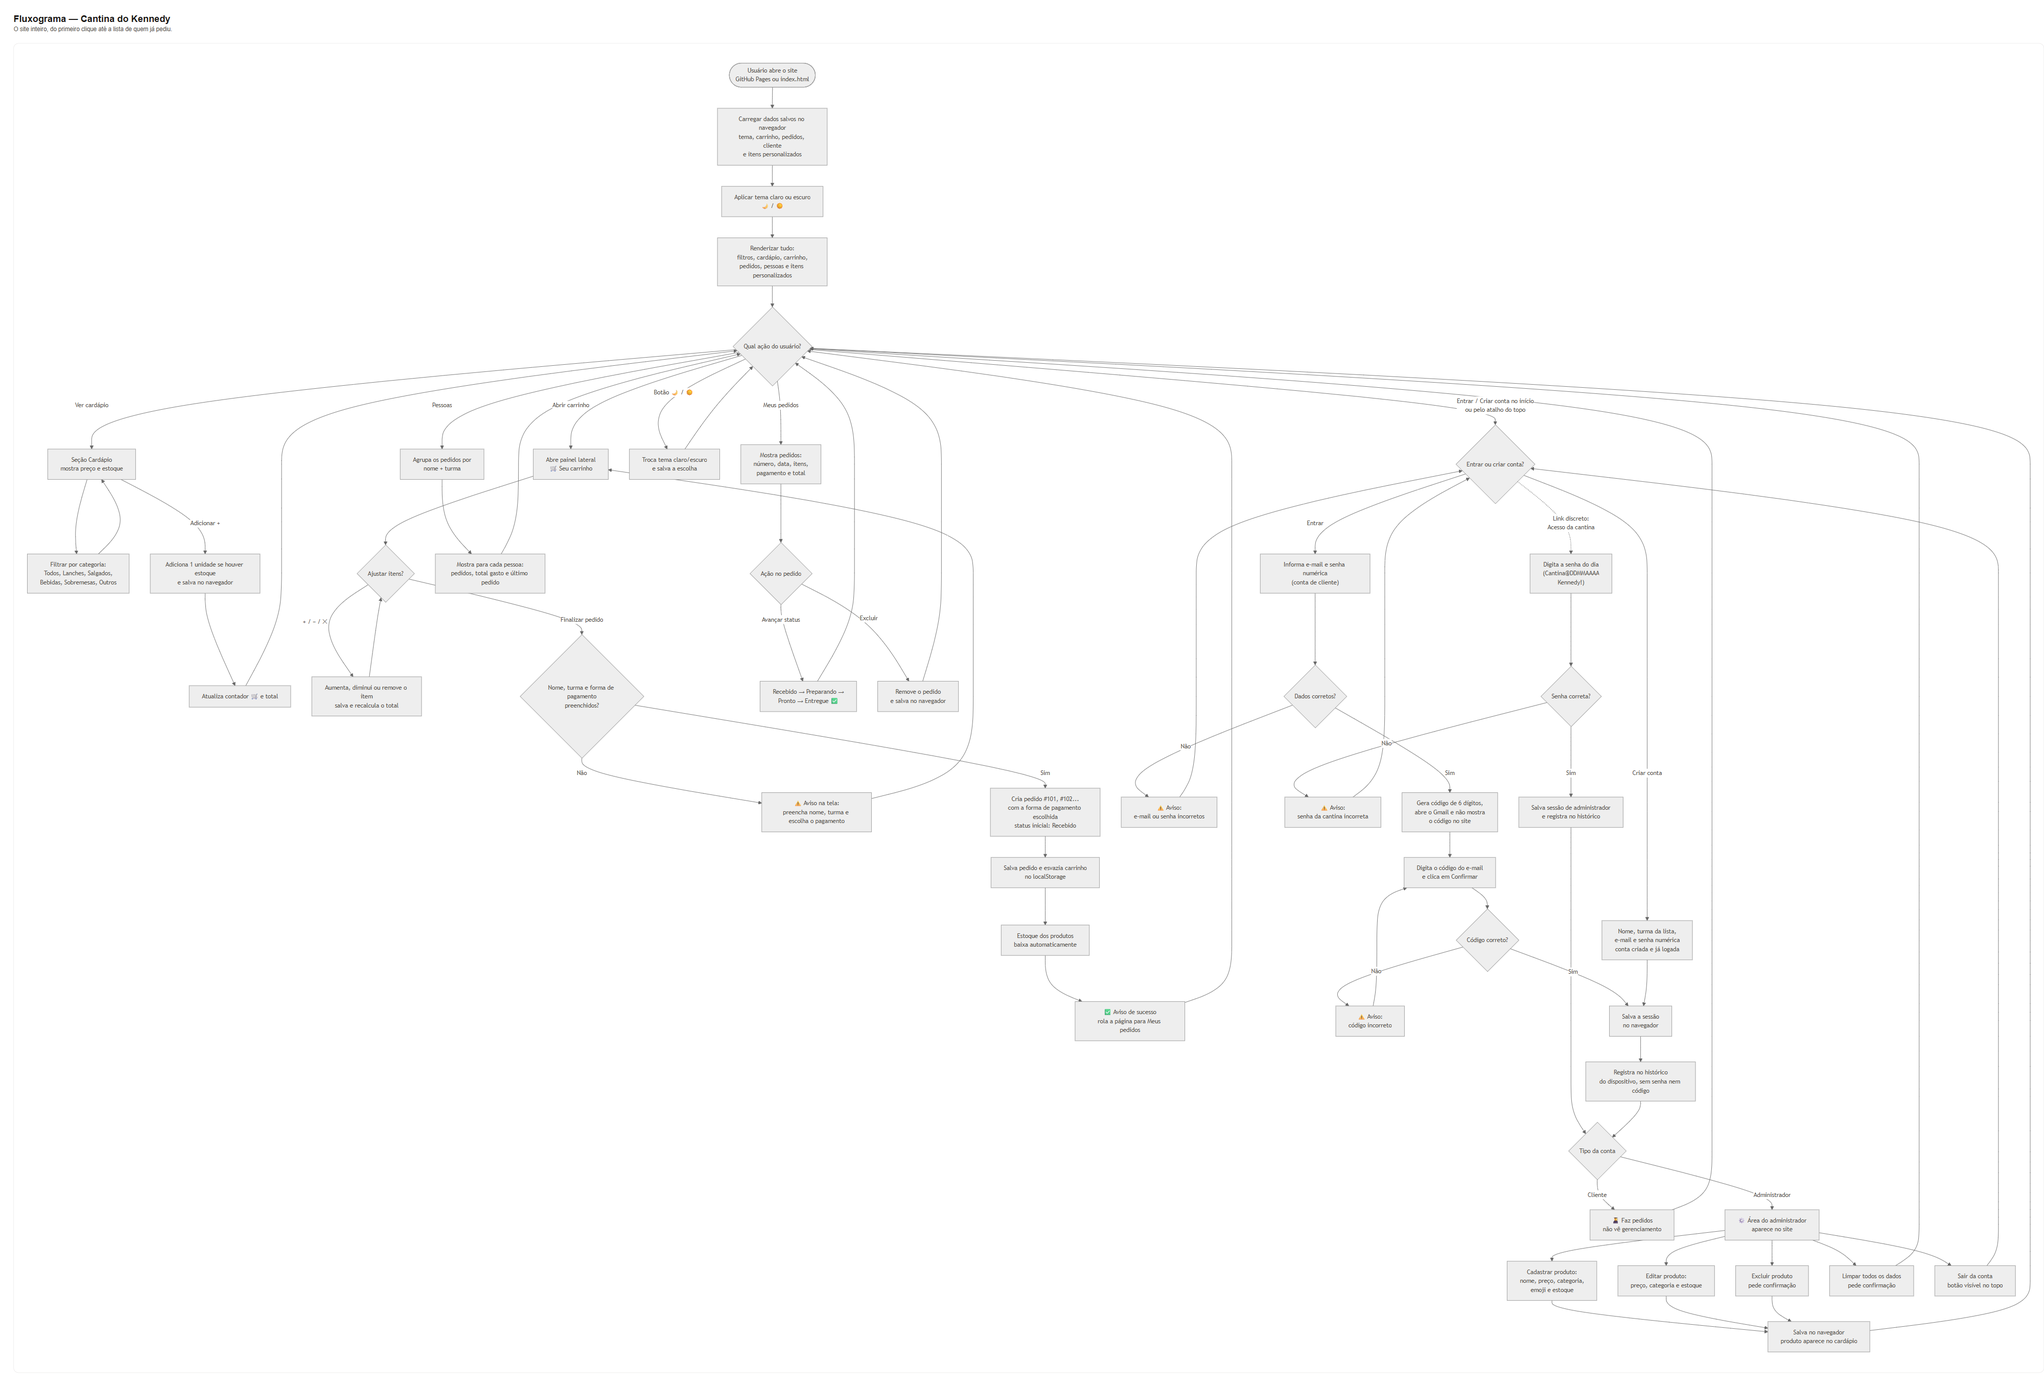
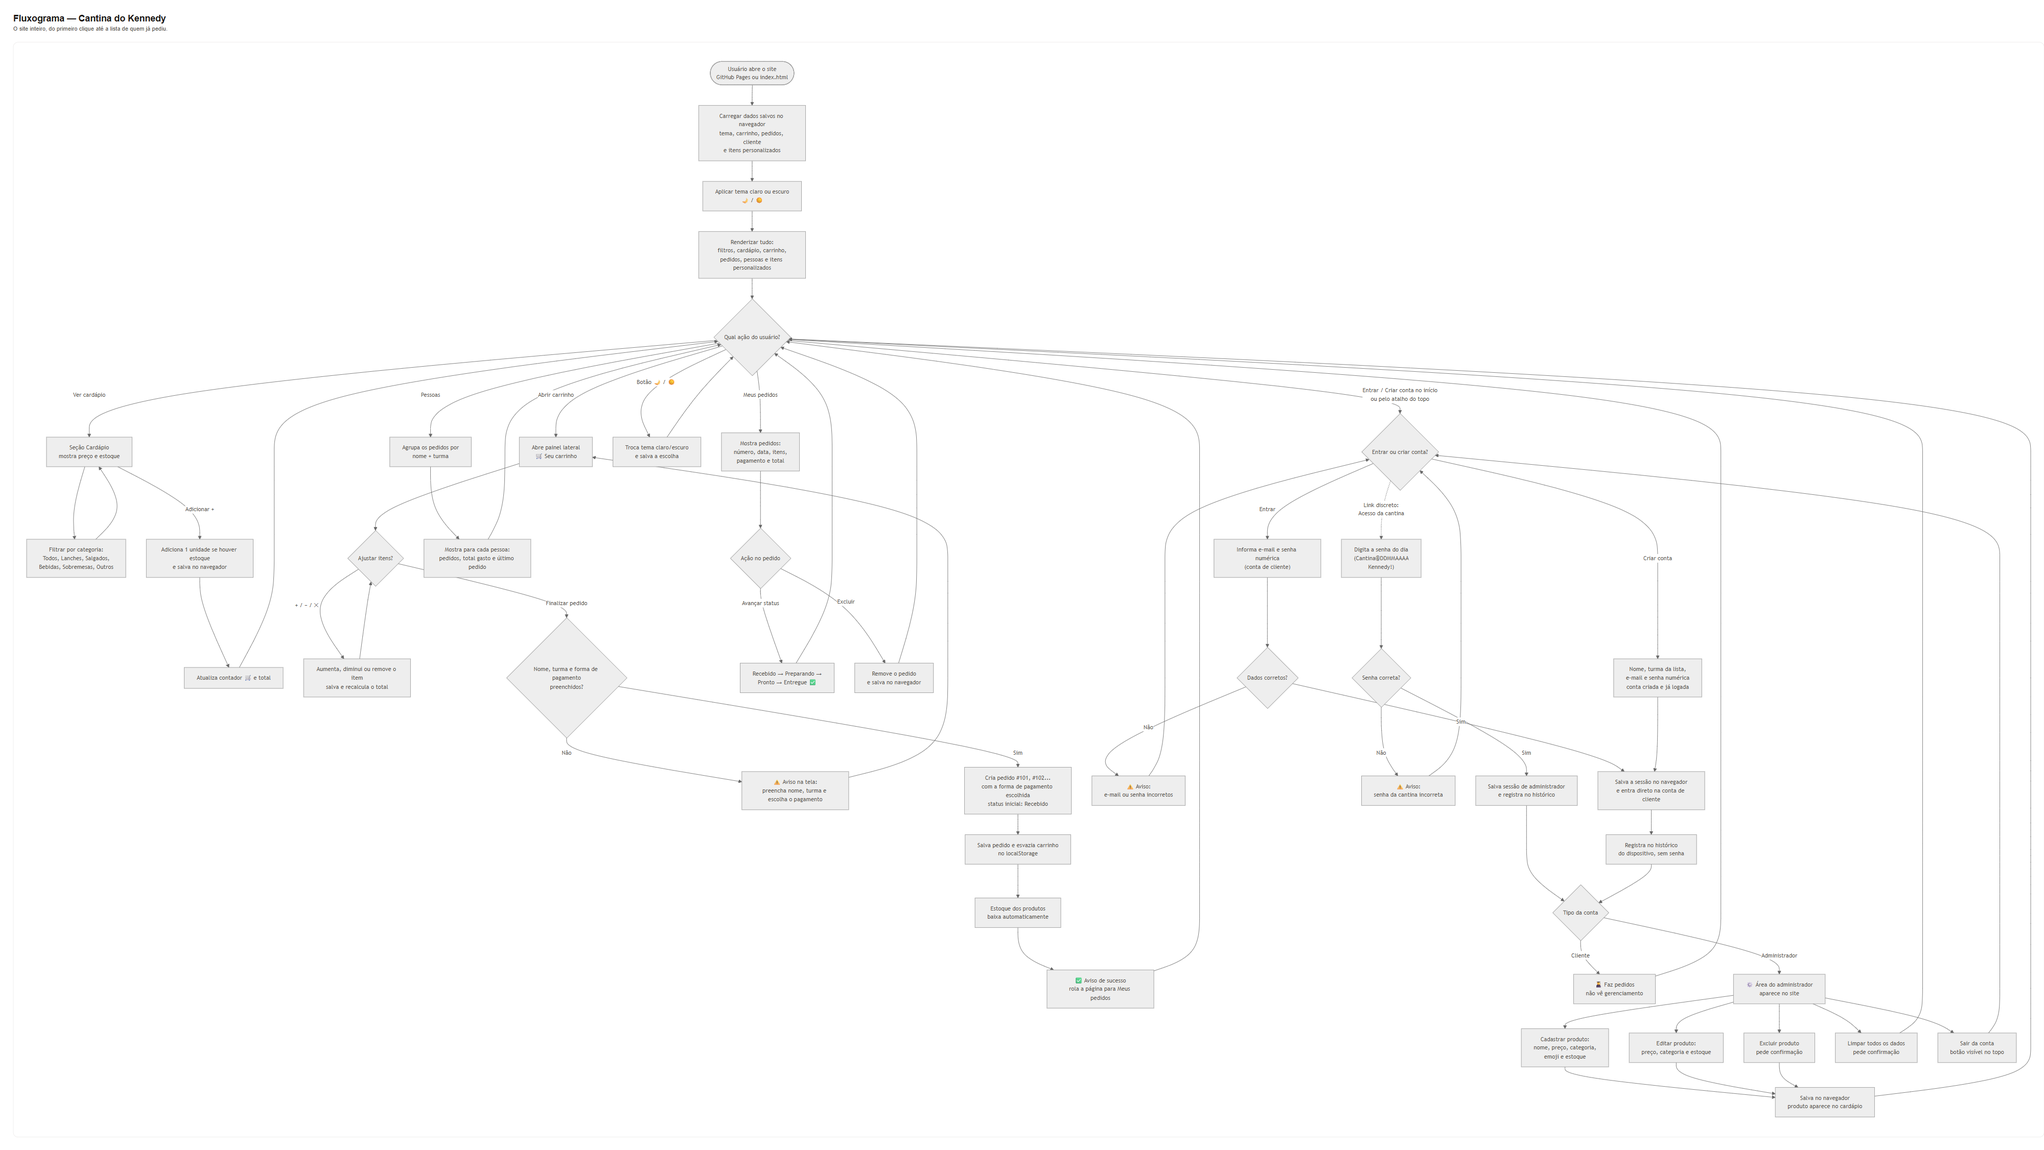
Login do cliente sem código e senha admin de 8 caracteres

diff --git a/app.js b/app.js
@@ -47,12 +47,12 @@ const STATUS = ['Recebido', 'Preparando', 'Pronto', 'Entregue'];
 const PREFIXO_SENHA_ADMIN = 'Cantina@';
 const SUFIXO_SENHA_ADMIN = 'Kennedy!';
 
-// Regras exigidas: no mínimo 12 caracteres, 2 números, letra maiúscula,
+// Regras exigidas: no mínimo 8 caracteres, 2 números, letra maiúscula,
 // letra minúscula e símbolo (ex.: @ ! # $ % & *).
 function senhaAdminValida(senha) {
   if (typeof senha !== 'string') return false;
   const quantidadeNumeros = (senha.match(/\d/g) || []).length;
-  return senha.length >= 12
+  return senha.length >= 8
     && quantidadeNumeros >= 2
     && /[A-Z]/.test(senha)
     && /[a-z]/.test(senha)
@@ -125,11 +125,6 @@ const el = {
   formCriar: $('#form-criar'),
   loginEmail: $('#login-email'),
   loginSenha: $('#login-senha'),
-  codigoLogin: $('#codigo-login'),
-  loginCodigo: $('#login-codigo'),
-  linkCodigoGmail: $('#link-codigo-gmail'),
-  btnConfirmarCodigo: $('#btn-confirmar-codigo'),
-  btnCancelarCodigo: $('#btn-cancelar-codigo'),
   criarNome: $('#criar-nome'),
   criarTurma: $('#criar-turma'),
   criarEmail: $('#criar-email'),
@@ -233,27 +228,6 @@ function emailValido(email) {
   return /^[^\s@]+@[^\s@]+\.[^\s@]+$/.test(email);
 }
 
-// Gera uma senha ou um código de acesso com somente números (6 dígitos).
-function gerarSenha() {
-  const valores = new Uint32Array(6);
-  if (window.crypto && window.crypto.getRandomValues) {
-    window.crypto.getRandomValues(valores);
-  } else {
-    for (let i = 0; i < valores.length; i += 1) valores[i] = Math.floor(Math.random() * 10);
-  }
-  return Array.from(valores, (valor) => String(valor % 10)).join('');
-}
-
-// Monta o e-mail do Gmail com o código usado na segunda etapa do login.
-function linkGmailCodigo(email, nome, codigo) {
-  const assunto = 'Código para entrar - Cantina do Kennedy';
-  const corpo = `Olá, ${nome}!\n\nSeu código para entrar na Cantina do Kennedy é:\n\n${codigo}\n\nDigite este código no site depois da senha.\n`;
-  return 'https://mail.google.com/mail/?view=cm&fs=1'
-    + `&to=${encodeURIComponent(email)}`
-    + `&su=${encodeURIComponent(assunto)}`
-    + `&body=${encodeURIComponent(corpo)}`;
-}
-
 let timerToast;
 function mostrarMensagem(texto) {
   el.toast.textContent = texto;
@@ -309,9 +283,6 @@ function alternarModo(modo) {
   el.abaCriar.classList.toggle('ativa', modo === 'criar');
   el.abaLogin.setAttribute('aria-selected', String(modo === 'login'));
   el.abaCriar.setAttribute('aria-selected', String(modo === 'criar'));
-  el.codigoLogin.hidden = true;
-  el.loginCodigo.value = '';
-  codigoPendente = null;
 }
 
 function renderizarAdmin() {
@@ -335,7 +306,7 @@ function renderizarAdmin() {
   }
 }
 
-// Guarda no dispositivo os logins feitos com sucesso (nunca senha ou código).
+// Guarda no dispositivo os logins feitos com sucesso (nunca senha).
 function registrarLogin(conta) {
   const entrada = {
     nome: conta.nome,
@@ -421,15 +392,19 @@ function entrar(evento) {
     return;
   }
 
-  // Senha correta: agora vem a etapa extra com o código enviado pelo Gmail.
-  const codigo = gerarSenha();
-  codigoPendente = { conta, codigo };
-  el.formLogin.hidden = true;
-  el.codigoLogin.hidden = false;
-  el.loginCodigo.value = '';
-  window.open(linkGmailCodigo(conta.email, conta.nome, codigo), '_blank', 'noopener');
-  mostrarMensagem('Código gerado! Envie o e-mail no Gmail, copie o código e confirme aqui.');
-  el.loginCodigo.focus();
+  // Senha correta: entra direto na conta de cliente, sem código extra.
+  sessao = { tipo: conta.tipo, nome: conta.nome, email: conta.email };
+  salvar(CHAVES.sessao, sessao);
+  registrarLogin(conta);
+
+  cliente = { nome: conta.nome, turma: conta.turma || '' };
+  salvar(CHAVES.cliente, cliente);
+  el.nome.value = cliente.nome;
+  el.turma.value = cliente.turma;
+
+  el.formLogin.reset();
+  renderizarTudo();
+  mostrarMensagem(`Bem-vindo(a), ${conta.nome}!`);
 }
 
 function entrarAdmin(evento) {
@@ -438,7 +413,7 @@ function entrarAdmin(evento) {
   const senhaDeHoje = senhaAdminDoDia();
 
   if (!senhaAdminValida(senhaDeHoje)) {
-    mostrarMensagem('A senha do dia precisa ter no mínimo 12 caracteres, 2 números, maiúscula, minúscula e símbolo. Ajuste o prefixo/sufixo no app.js.');
+    mostrarMensagem('A senha do dia precisa ter no mínimo 8 caracteres, 2 números, maiúscula, minúscula e símbolo. Ajuste o prefixo/sufixo no app.js.');
     return;
   }
 
@@ -457,54 +432,13 @@ function entrarAdmin(evento) {
   mostrarMensagem('Você entrou como administrador.');
 }
 
-function confirmarCodigo() {
-  if (!codigoPendente) {
-    mostrarMensagem('Digite e-mail e senha para receber um código.');
-    return;
-  }
-  if (el.loginCodigo.value.trim() !== codigoPendente.codigo) {
-    mostrarMensagem('Código incorreto. Confira o e-mail no Gmail e tente de novo.');
-    return;
-  }
-
-  const conta = codigoPendente.conta;
-  sessao = { tipo: conta.tipo, nome: conta.nome, email: conta.email };
-  salvar(CHAVES.sessao, sessao);
-  registrarLogin(conta);
-
-  if (conta.tipo === 'cliente') {
-    cliente = { nome: conta.nome, turma: conta.turma || '' };
-    salvar(CHAVES.cliente, cliente);
-    el.nome.value = cliente.nome;
-    el.turma.value = cliente.turma;
-  }
-
-  el.loginSenha.value = '';
-  el.loginCodigo.value = '';
-  el.codigoLogin.hidden = true;
-  codigoPendente = null;
-  renderizarTudo();
-  mostrarMensagem(`Bem-vindo(a), ${conta.nome}!`);
-}
-
-function cancelarCodigo() {
-  codigoPendente = null;
-  el.loginCodigo.value = '';
-  el.codigoLogin.hidden = true;
-  el.formLogin.hidden = false;
-  mostrarMensagem('Login cancelado. Digite e-mail e senha para receber um novo código.');
-}
-
 function sair() {
   sessao = null;
   salvar(CHAVES.sessao, sessao);
   alternarModo('login');
   el.loginEmail.value = '';
   el.loginSenha.value = '';
-  el.loginCodigo.value = '';
   el.adminSenha.value = '';
-  el.codigoLogin.hidden = true;
-  codigoPendente = null;
   renderizarTudo();
   mostrarMensagem('Você saiu da conta.');
 }
@@ -525,7 +459,6 @@ let cardapioExcluidos = ler(CHAVES.cardapioExcluidos, []);
 let cardapioEstoque = ler(CHAVES.cardapioEstoque, {});
 let contas = ler(CHAVES.contas, []);
 let historicoLogin = ler(CHAVES.historicoLogin, []);
-let codigoPendente = null; // código do login só na memória, nunca aparece no site
 let modoAuth = 'login';
 // Só aceita sessões no formato novo (cliente ou administrador).
 let sessao = ler(CHAVES.sessao, null);
@@ -1028,21 +961,6 @@ el.btnLimparHistorico.addEventListener('click', () => {
   mostrarMensagem('Histórico de login apagado.');
 });
 el.btnCancelarEdicao.addEventListener('click', resetarFormItem);
-el.btnConfirmarCodigo.addEventListener('click', confirmarCodigo);
-el.btnCancelarCodigo.addEventListener('click', cancelarCodigo);
-
-el.linkCodigoGmail.addEventListener('click', (evento) => {
-  evento.preventDefault();
-  if (!codigoPendente) {
-    mostrarMensagem('Digite e-mail e senha para receber um código.');
-    return;
-  }
-  window.open(
-    linkGmailCodigo(codigoPendente.conta.email, codigoPendente.conta.nome, codigoPendente.codigo),
-    '_blank',
-    'noopener'
-  );
-});
 
 // Lembra nome e turma enquanto a pessoa digita.
 [el.nome, el.turma].forEach((campo) => campo.addEventListener('input', () => {
@@ -1061,7 +979,6 @@ el.btnLimpar.addEventListener('click', () => {
   contas = [];
   historicoLogin = [];
   sessao = null;
-  codigoPendente = null;
   carrinho = {};
   pedidos = [];
   cliente = { nome: '', turma: '' };
@@ -1071,8 +988,6 @@ el.btnLimpar.addEventListener('click', () => {
   el.formLogin.reset();
   el.formCriar.reset();
   el.formAdmin.reset();
-  el.loginCodigo.value = '';
-  el.codigoLogin.hidden = true;
   alternarModo('login');
   resetarFormItem();
   recarregarCardapio();

diff --git a/index.html b/index.html
@@ -4,7 +4,7 @@
   <meta charset="UTF-8">
   <meta name="viewport" content="width=device-width, initial-scale=1.0">
   <title>Cantina do Kennedy | Peça seu lanche</title>
-  <link rel="stylesheet" href="style.css?v=17">
+  <link rel="stylesheet" href="style.css?v=19">
 </head>
 <body>
 
@@ -59,7 +59,7 @@
         <!-- ENTRAR -->
         <form class="form-auth" id="form-login">
           <h3>Entrar na sua conta</h3>
-          <p class="auth-dica">Use o e-mail e a senha que você cadastrou. Depois, confirme com o código que chega no Gmail.</p>
+          <p class="auth-dica">Use o e-mail e a senha numérica que você cadastrou. Você entra direto na sua conta de cliente.</p>
           <label class="campo">E-mail
             <input id="login-email" type="email" placeholder="seuemail@gmail.com" autocomplete="username" required>
           </label>
@@ -84,20 +84,6 @@
             <button class="botao-secundario" id="btn-voltar-login" type="button">Voltar</button>
           </div>
         </form>
-
-        <!-- Etapa extra do login: código enviado pelo Gmail -->
-        <div class="senha-gerada" id="codigo-login" hidden>
-          <h3>📧 Confirme com o código do Gmail</h3>
-          <p>Envie para si mesmo o e-mail que abriu. O código de 6 dígitos vem dentro da mensagem e <strong>não aparece aqui no site</strong>.</p>
-          <a class="botao-primario" id="link-codigo-gmail" href="#" target="_blank" rel="noopener">Reabrir e-mail com o código</a>
-          <label class="campo">Digite o código do e-mail
-            <input id="login-codigo" type="text" inputmode="numeric" maxlength="6" placeholder="Somente 6 dígitos" autocomplete="one-time-code">
-          </label>
-          <div class="auth-botoes">
-            <button class="botao-primario" id="btn-confirmar-codigo" type="button">Confirmar e entrar</button>
-            <button class="botao-secundario" id="btn-cancelar-codigo" type="button">Cancelar</button>
-          </div>
-        </div>
 
         <!-- CRIAR CONTA -->
         <form class="form-auth" id="form-criar" hidden>
@@ -130,7 +116,7 @@
         <!-- Histórico de login salvo neste dispositivo -->
         <div class="historico-login" id="historico-login" hidden>
           <h3>🕘 Histórico de login neste dispositivo</h3>
-          <p class="auth-dica">Fica salvo só neste navegador. Guardamos nome, e-mail, tipo e data/hora — nunca senha nem código.</p>
+          <p class="auth-dica">Fica salvo só neste navegador. Guardamos nome, e-mail, tipo e data/hora — nunca senha.</p>
           <div class="lista-historico" id="lista-historico"></div>
           <button class="botao-secundario" id="btn-limpar-historico" type="button">Limpar histórico</button>
         </div>
@@ -265,6 +251,6 @@
 
   <div class="toast" id="toast" role="status" aria-live="polite"></div>
 
-  <script src="app.js?v=17"></script>
+  <script src="app.js?v=19"></script>
 </body>
 </html>

diff --git a/fluxograma.html b/fluxograma.html
@@ -77,13 +77,8 @@ flowchart TD
     LOGIN --> LOGINOK{"Dados corretos?"}
     LOGINOK -->|"Não"| ERROLOGIN["⚠ Aviso:<br/>e-mail ou senha incorretos"]
     ERROLOGIN --> ENTRADA
-    LOGINOK -->|"Sim"| GERACODIGO["Gera código de 6 dígitos,<br/>abre o Gmail e não mostra<br/>o código no site"]
-    GERACODIGO --> CODIGO["Digita o código do e-mail<br/>e clica em Confirmar"]
-    CODIGO --> CODIGOOK{"Código correto?"}
-    CODIGOOK -->|"Não"| ERROCODIGO["⚠ Aviso:<br/>código incorreto"]
-    ERROCODIGO --> CODIGO
-    CODIGOOK -->|"Sim"| SESSAO["Salva a sessão<br/>no navegador"]
-    SESSAO --> HISTORICO["Registra no histórico<br/>do dispositivo, sem senha nem código"]
+    LOGINOK -->|"Sim"| SESSAO["Salva a sessão no navegador<br/>e entra direto na conta de cliente"]
+    SESSAO --> HISTORICO["Registra no histórico<br/>do dispositivo, sem senha"]
 
     ENTRADA -->|"Criar conta"| CRIARCLI["Nome, turma da lista,<br/>e-mail e senha numérica<br/>conta criada e já logada"]
     CRIARCLI --> SESSAO

diff --git a/fluxograma-simples.html b/fluxograma-simples.html
@@ -44,7 +44,7 @@ flowchart LR
     A --> B --> C --> D --> E --> F --> G --> H
 
     B -.-> I["🧑🎓 Cliente"]
-    I -.-> J["No início: entrar ou criar conta<br/>senha + código do Gmail"]
+    I -.-> J["No início: entrar ou criar conta<br/>e-mail + senha numérica"]
     J -.-> N["Histórico de login salvo<br/>no dispositivo, sem senha"]
     B -.-> L["🔒 Acesso reservado<br/>da cantina"]
     L -.-> M["Senha muda todo dia<br/>(Cantina@DDMMAAAA Kennedy!)"]

diff --git a/README.md b/README.md
@@ -15,7 +15,7 @@ Site para fazer pedidos de lanches da cantina.
 - **Forma de pagamento** na finalização: cartão de débito, cartão de crédito ou dinheiro.
 - Nome e turma do cliente e acompanhamento do status (Recebido → Preparando → Pronto → Entregue).
 - Lista de **pessoas que já pediram** (sem senha).
-- **Histórico de login** salvo no dispositivo (nome, e-mail, tipo e data/hora — sem senha nem código).
+- **Histórico de login** salvo no dispositivo (nome, e-mail, tipo e data/hora — sem senha).
 - **Conta de cliente** para fazer pedidos e **acesso reservado** para o administrador.
 - Área do administrador com **CRUD de produtos**: cadastrar, editar, excluir e ajustar estoque.
 - Ao finalizar um pedido, o estoque dos produtos baixa automaticamente.
@@ -39,31 +39,25 @@ Quando estiver logado, o topo mostra seu nome e um botão **Sair** fácil de enc
   - Exemplo: em 20/11/2026 a senha é `Cantina@20112026Kennedy!`.
   - A senha de ontem **não serve mais**: isso evita que uma senha copiada continue funcionando.
 - As partes fixas (`Cantina@` e `Kennedy!`) ficam no topo do `app.js` em `PREFIXO_SENHA_ADMIN` e `SUFIXO_SENHA_ADMIN`. Troque essas linhas quando quiser.
-- A senha gerada precisa seguir as regras de senha forte: **mínimo de 12 caracteres, pelo menos 2 números, 1 letra maiúscula, 1 letra minúscula e 1 símbolo**. Se as partes fixas não gerarem uma senha válida, o site bloqueia o acesso e avisa no console.
+- A senha gerada precisa seguir as regras de senha forte: **mínimo de 8 caracteres, pelo menos 2 números, 1 letra maiúscula, 1 letra minúscula e 1 símbolo**. Se as partes fixas não gerarem uma senha válida, o site bloqueia o acesso e avisa no console.
 - A senha é comparada exatamente como foi digitada — diferencia maiúsculas de minúsculas e símbolos.
 - Depois de entrar, a área de gerenciar produtos aparece normalmente. O acesso também aparece no histórico de login, mas **nunca** salva a senha.
 
 > ⚠ A troca diária ajuda contra senha copiada ou compartilhada, **mas não é segurança de verdade**: o modelo da senha está no código-fonte. Em um site estático (GitHub Pages), quem abrir o `app.js` consegue calcular a senha de qualquer dia. Para segurança real, seria preciso um servidor.
 
-### 🔢 Etapa extra ao entrar (cliente)
+### 🔐 Entrar na conta de cliente
 
-Ao escolher **Entrar** com uma conta de cliente:
+Ao escolher **Entrar**, informe o **e-mail** e a **senha numérica** cadastrados e clique em **“Entrar”**. Você entra direto na conta de cliente — **não há mais código de 6 dígitos nem etapa com Gmail**.
 
-1. Informe o e-mail e a senha cadastrados.
-2. Receba um **código de 6 dígitos** no Gmail (o site abre a mensagem pronta).
-3. Copie o código do e-mail, digite-o no site e clique em **“Confirmar e entrar”**.
-
-O acesso reservado do administrador **não** usa essa etapa do Gmail.
-
-O código **não aparece no site**: fica só dentro do e-mail e na memória da aba. Se o e-mail não abriu, use **“Reabrir e-mail com o código”**. Se errar ou desistir, clique em **“Cancelar”** para começar de novo.
+O acesso reservado do administrador continua usando apenas a senha do dia.
 
 ### 🕘 Histórico de login
 
-Cada login feito com sucesso fica salvo no **localStorage deste navegador/dispositivo**. Na seção Minha conta aparece a lista com nome, e-mail, tipo de conta e data/hora do acesso — mais recente primeiro (até os 30 últimos). **Nunca** são guardadas senhas nem códigos.
+Cada login feito com sucesso fica salvo no **localStorage deste navegador/dispositivo**. Na seção Minha conta aparece a lista com nome, e-mail, tipo de conta e data/hora do acesso — mais recente primeiro (até os 30 últimos). **Nunca** é guardada a senha.
 
 O botão **“Limpar histórico”** apaga só essa lista. O botão de limpar todos os dados também apaga o histórico. Se trocar de navegador, dispositivo ou apagar os dados do site, o histórico não vem junto.
 
-> ⚠ Como o site é estático (GitHub Pages), ele **não envia e-mails sozinho**: o Gmail abre com a mensagem pronta e a pessoa clica em enviar. Tudo fica salvo somente neste navegador. Isso é uma separação simples para o projeto, não uma segurança de verdade.
+> ⚠ Como o site é estático (GitHub Pages), tudo fica salvo somente neste navegador. Não há envio de e-mails nem verificação em duas etapas — o login é feito só com e-mail e senha numérica.
 
 ## 💳 Forma de pagamento
 

diff --git a/fluxograma.md b/fluxograma.md
@@ -55,13 +55,8 @@ flowchart TD
     LOGIN --> LOGINOK{"Dados corretos?"}
     LOGINOK -->|"Não"| ERROLOGIN["⚠ Aviso:<br/>e-mail ou senha incorretos"]
     ERROLOGIN --> ENTRADA
-    LOGINOK -->|"Sim"| GERACODIGO["Gera código de 6 dígitos,<br/>abre o Gmail e não mostra<br/>o código no site"]
-    GERACODIGO --> CODIGO["Digita o código do e-mail<br/>e clica em Confirmar"]
-    CODIGO --> CODIGOOK{"Código correto?"}
-    CODIGOOK -->|"Não"| ERROCODIGO["⚠ Aviso:<br/>código incorreto"]
-    ERROCODIGO --> CODIGO
-    CODIGOOK -->|"Sim"| SESSAO["Salva a sessão<br/>no navegador"]
-    SESSAO --> HISTORICO["Registra no histórico<br/>do dispositivo, sem senha nem código"]
+    LOGINOK -->|"Sim"| SESSAO["Salva a sessão no navegador<br/>e entra direto na conta de cliente"]
+    SESSAO --> HISTORICO["Registra no histórico<br/>do dispositivo, sem senha"]
 
     ENTRADA -->|"Criar conta"| CRIARCLI["Nome, turma da lista,<br/>e-mail e senha numérica<br/>conta criada e já logada"]
     CRIARCLI --> SESSAO

diff --git a/fluxograma-simples.md b/fluxograma-simples.md
@@ -23,7 +23,7 @@ flowchart LR
     A --> B --> C --> D --> E --> F --> G --> H
 
     B -.-> I["🧑🎓 Cliente"]
-    I -.-> J["No início: entrar ou criar conta<br/>senha + código do Gmail"]
+    I -.-> J["No início: entrar ou criar conta<br/>e-mail + senha numérica"]
     J -.-> N["Histórico de login salvo<br/>no dispositivo, sem senha"]
     B -.-> L["🔒 Acesso reservado<br/>da cantina"]
     L -.-> M["Senha muda todo dia<br/>(Cantina@DDMMAAAA Kennedy!)"]
